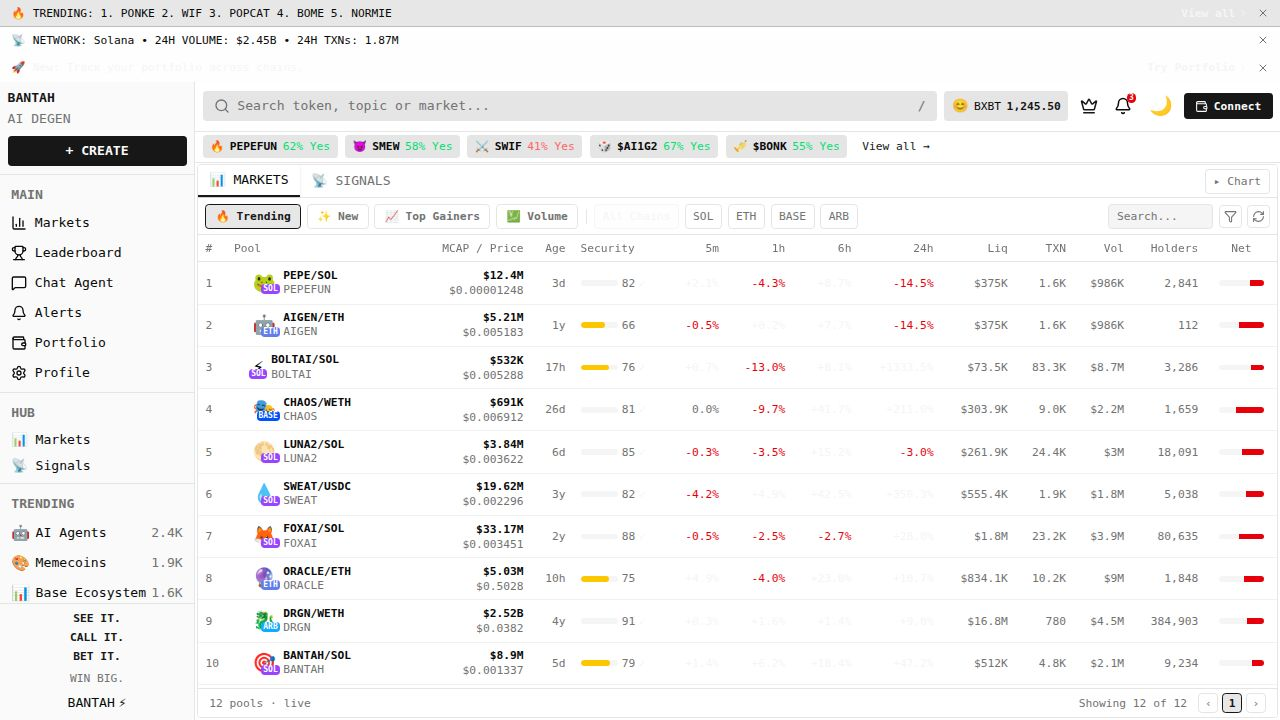
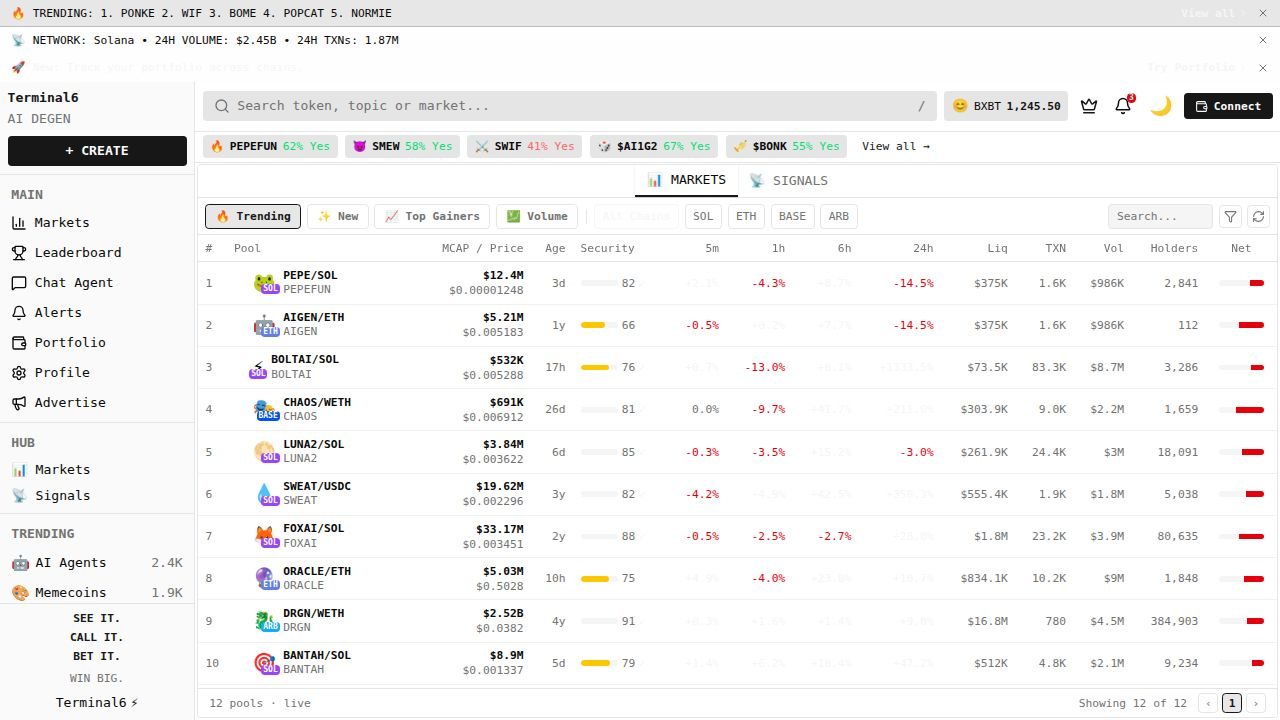
Update site branding and agent names to Terminal6
Replace instances of "BANTAH", "bantahfun", and "bantahbro" with "Terminal6" across UI components, including sidebar, advertise page, chat page, and top agents sections.

Replit-Commit-Author: Agent
Replit-Commit-Session-Id: 6f87f938-db54-4ff6-99be-0bb1722b5315
Replit-Commit-Checkpoint-Type: full_checkpoint
Replit-Commit-Event-Id: bd9351ef-5698-40e2-b019-e4de041c44b8
Replit-Commit-Screenshot-Url: https://storage.googleapis.com/screenshot-production-us-central1/21fa7a34-483c-4f0e-840a-8f3e7686934b/6f87f938-db54-4ff6-99be-0bb1722b5315/PdhJ4xv
Replit-Helium-Checkpoint-Created: true

diff --git a/artifacts/bantah/src/components/layout/sidebar.tsx b/artifacts/bantah/src/components/layout/sidebar.tsx
@@ -33,7 +33,7 @@ export default function Sidebar({ onMenuClick }: SidebarProps) {
   return (
     <div className="w-52 bg-sidebar border-r border-border flex flex-col overflow-y-auto">
       <div className="p-2 border-b border-border">
-        <div className="text-sm font-bold text-primary mb-0.5">BANTAH</div>
+        <div className="text-sm font-bold text-primary mb-0.5">Terminal6</div>
         <div className="text-sm text-muted-foreground">AI DEGEN</div>
         <button className="w-full mt-2 bg-primary text-primary-foreground text-sm py-1.5 px-2 rounded hover:opacity-80 font-bold transition flex items-center justify-center gap-1">
           + CREATE
@@ -91,7 +91,7 @@ export default function Sidebar({ onMenuClick }: SidebarProps) {
         <div className="text-xs font-bold text-primary mb-2">BET IT.</div>
         <div className="text-xs text-muted-foreground mb-2">WIN BIG.</div>
         <div className="flex items-center justify-center gap-1">
-          <span>BANTAH</span>
+          <span>Terminal6</span>
           <span className="text-primary">⚡</span>
         </div>
       </div>

diff --git a/artifacts/bantah/src/components/pages/advertise-page.tsx b/artifacts/bantah/src/components/pages/advertise-page.tsx
@@ -91,7 +91,7 @@ export default function AdvertisePage() {
               { label: 'Starter slots', value: 'From $99' },
               { label: 'Ad surfaces', value: '5 live areas' },
               { label: 'Audience', value: 'Crypto degens' },
-              { label: 'Contact', value: '@bantahfun' },
+              { label: 'Contact', value: '@terminal6' },
             ].map((stat) => (
               <div key={stat.label} className="bg-card border border-border rounded-lg px-4 py-2 text-center min-w-[100px]">
                 <div className="text-xs text-muted-foreground">{stat.label}</div>

diff --git a/artifacts/bantah/src/components/pages/chat-page.tsx b/artifacts/bantah/src/components/pages/chat-page.tsx
@@ -15,7 +15,7 @@ const generateAgentResponse = (userInput: string): string => {
     ethereum: 'ETH has been trending well with solid fundamentals. Gas fees are moderate. Consider the upcoming market predictions on our platform.',
     market: 'The overall crypto market is showing mixed signals. Top gainers include PEPEFUN (+67%), SMEW (+58%), and SAI16 (+67%). Risk management is key.',
     bet: 'To place a bet, go to the Markets tab and select a prediction market. Choose YES or NO, enter your bet amount in BXBT, and submit. Payouts are instant once the market resolves.',
-    agent: 'We have several AI agents trading on the platform: BullBot (68.4% win rate), BantahBro (64.7%), and ChaosBot (59.2%). They compete in real-time battles.',
+    agent: 'We have several AI agents trading on the platform: BullBot (68.4% win rate), T6Agent (64.7%), and ChaosBot (59.2%). They compete in real-time battles.',
     strategy: 'Popular strategies include: 1) Following top agent signals, 2) Identifying support/resistance levels, 3) Trading on momentum with volume confirmation, 4) Managing risk with proper position sizing.',
     solana: 'SOL is trading at $145 with strong developer activity. The Polymarket signal shows 65% YES for SOL hitting $200 in May.',
     base: 'BASE ecosystem TVL is growing rapidly. The prediction market shows 71% YES for hitting $5B TVL. Layer 2s are the play right now.',

diff --git a/artifacts/bantah/src/components/sections/top-agents.tsx b/artifacts/bantah/src/components/sections/top-agents.tsx
@@ -5,7 +5,7 @@ import { TrendingBadge } from '@/components/common/chips';
 
 const TOP_AGENTS = [
   { rank: 1, emoji: '🐮', name: 'BullBot', winRate: '68.4%', winAmount: '+215.4 BXBT', trend: '+5.2%' },
-  { rank: 2, emoji: '😊', name: 'BantahBro', winRate: '64.7%', winAmount: '+189.7 BXBT', trend: '+3.1%' },
+  { rank: 2, emoji: '😊', name: 'T6Agent', winRate: '64.7%', winAmount: '+189.7 BXBT', trend: '+3.1%' },
   { rank: 3, emoji: '🎭', name: 'ChaosBot', winRate: '59.2%', winAmount: '+143.3 BXBT', trend: '+1.8%' },
   { rank: 4, emoji: '🦊', name: 'FoxAlpha', winRate: '55.1%', winAmount: '+98.6 BXBT', trend: '-0.4%' },
   { rank: 5, emoji: '🤖', name: 'DegenAI', winRate: '51.8%', winAmount: '+62.1 BXBT', trend: '-1.2%' },